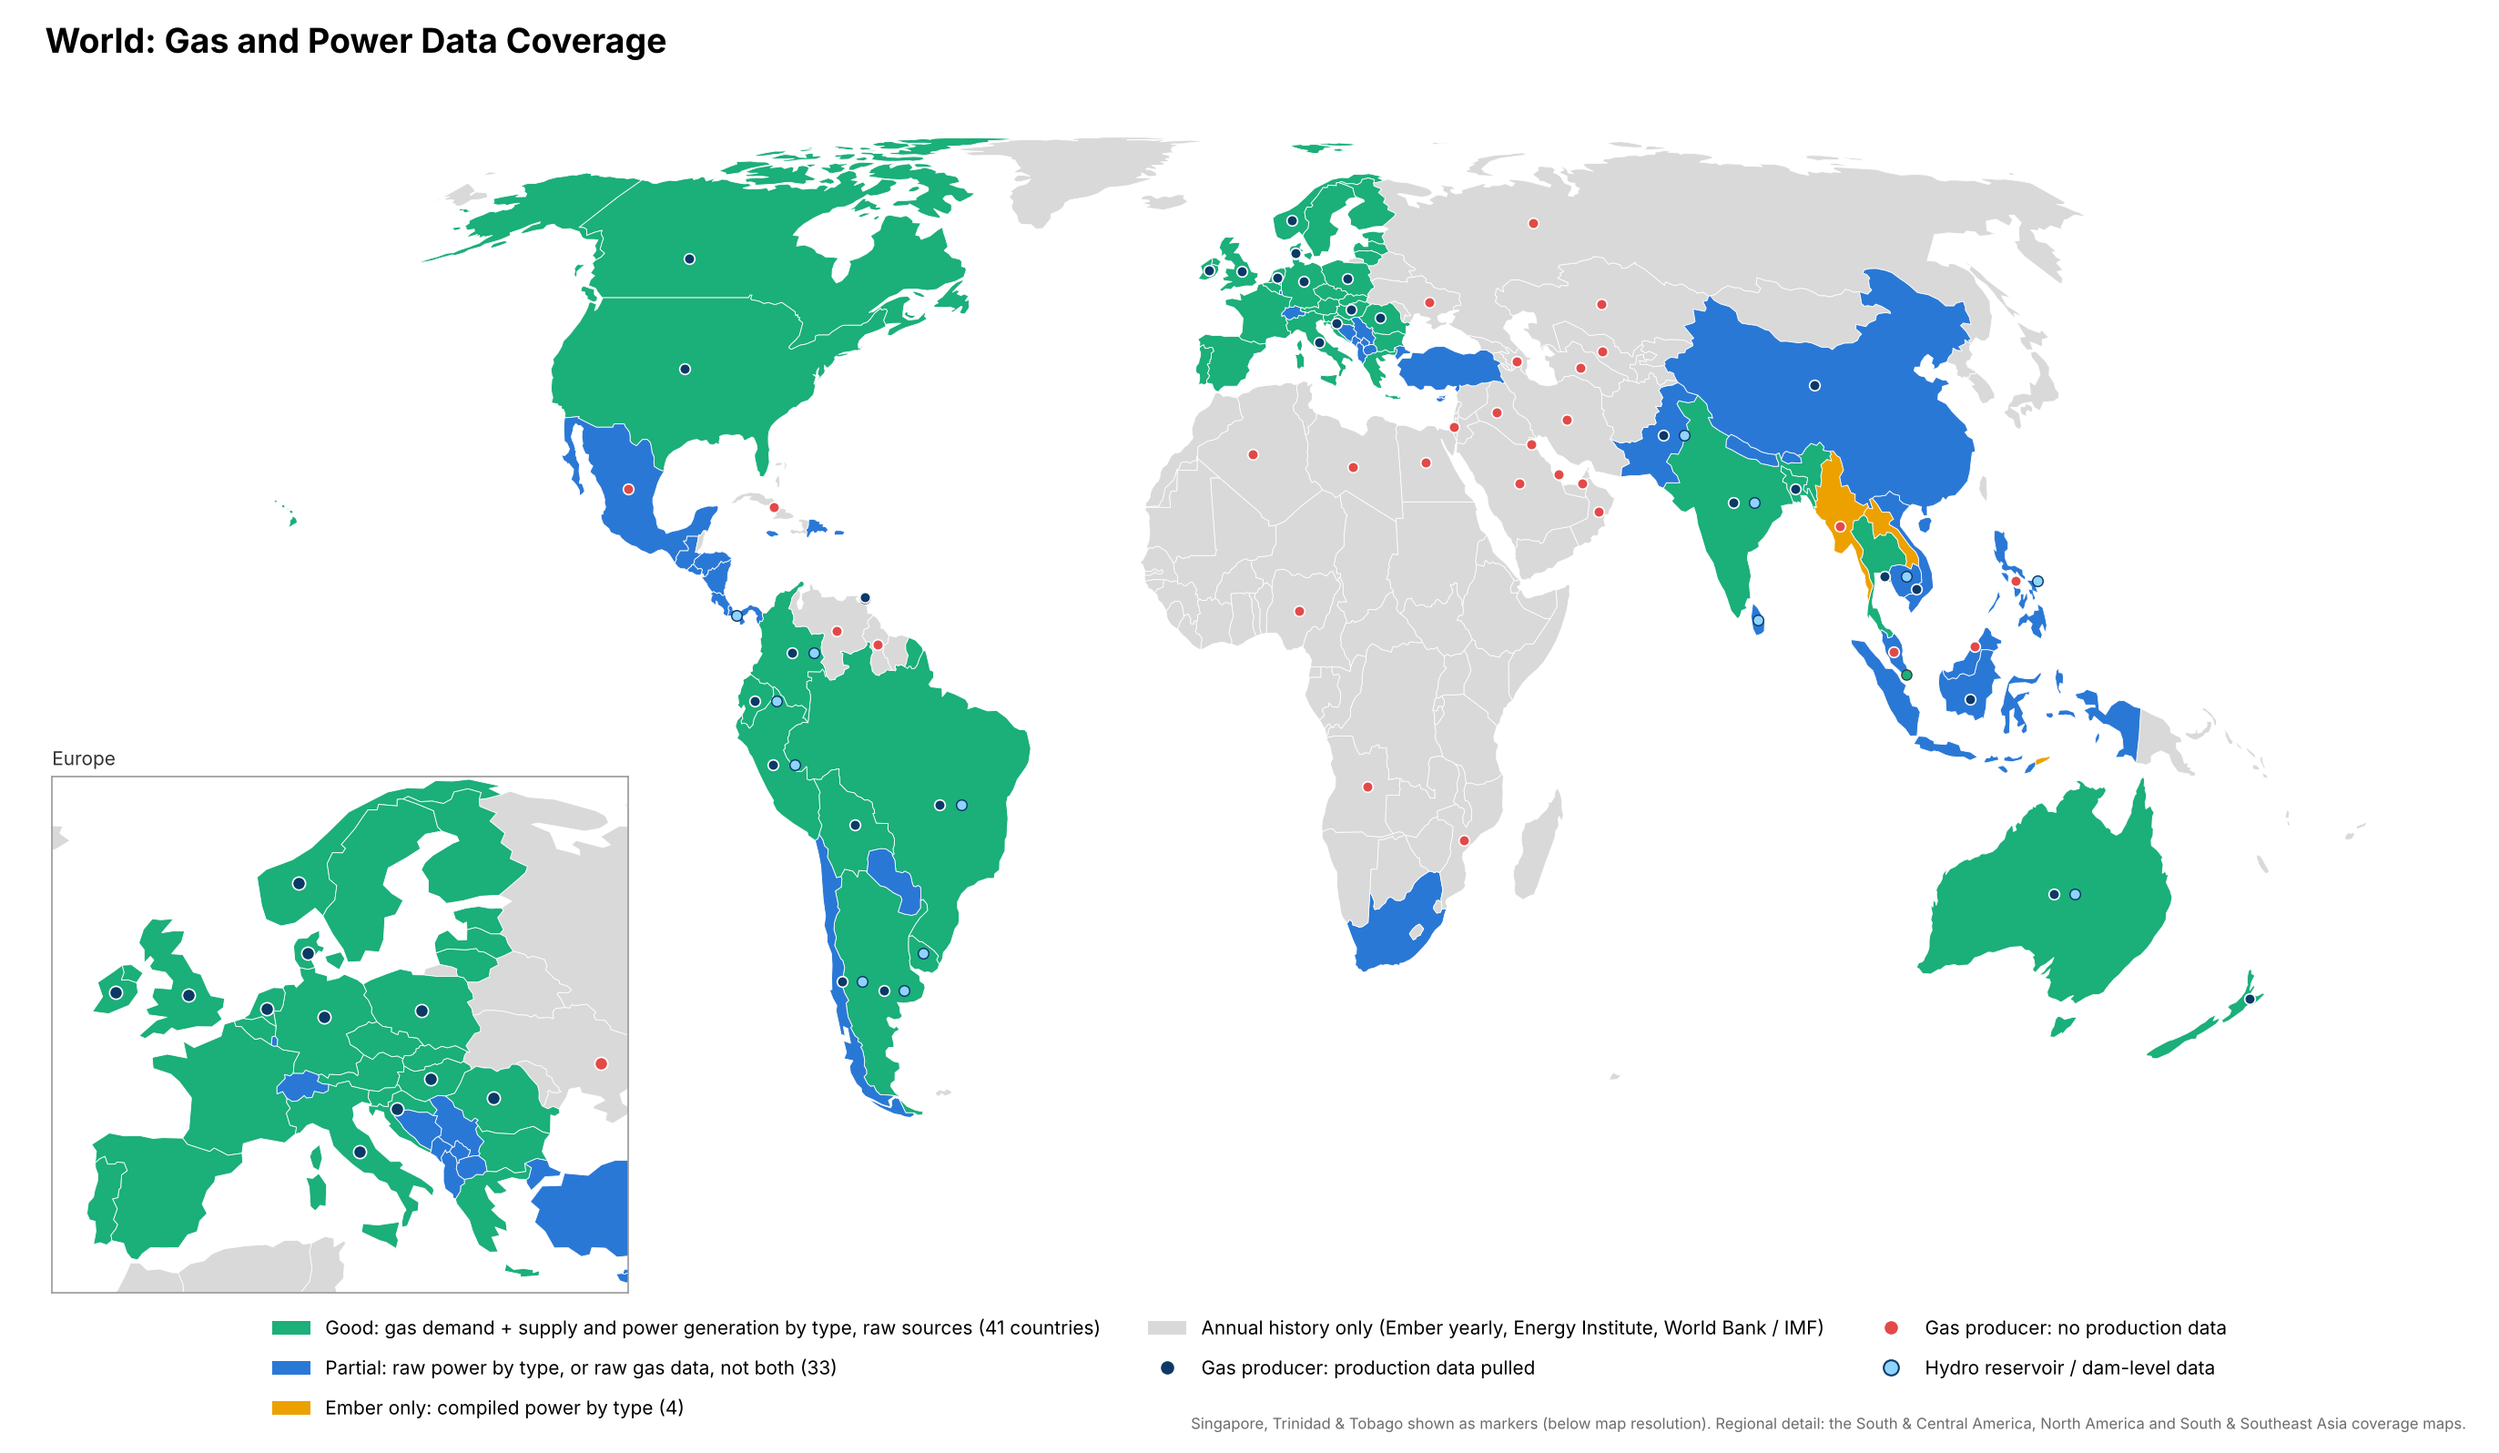
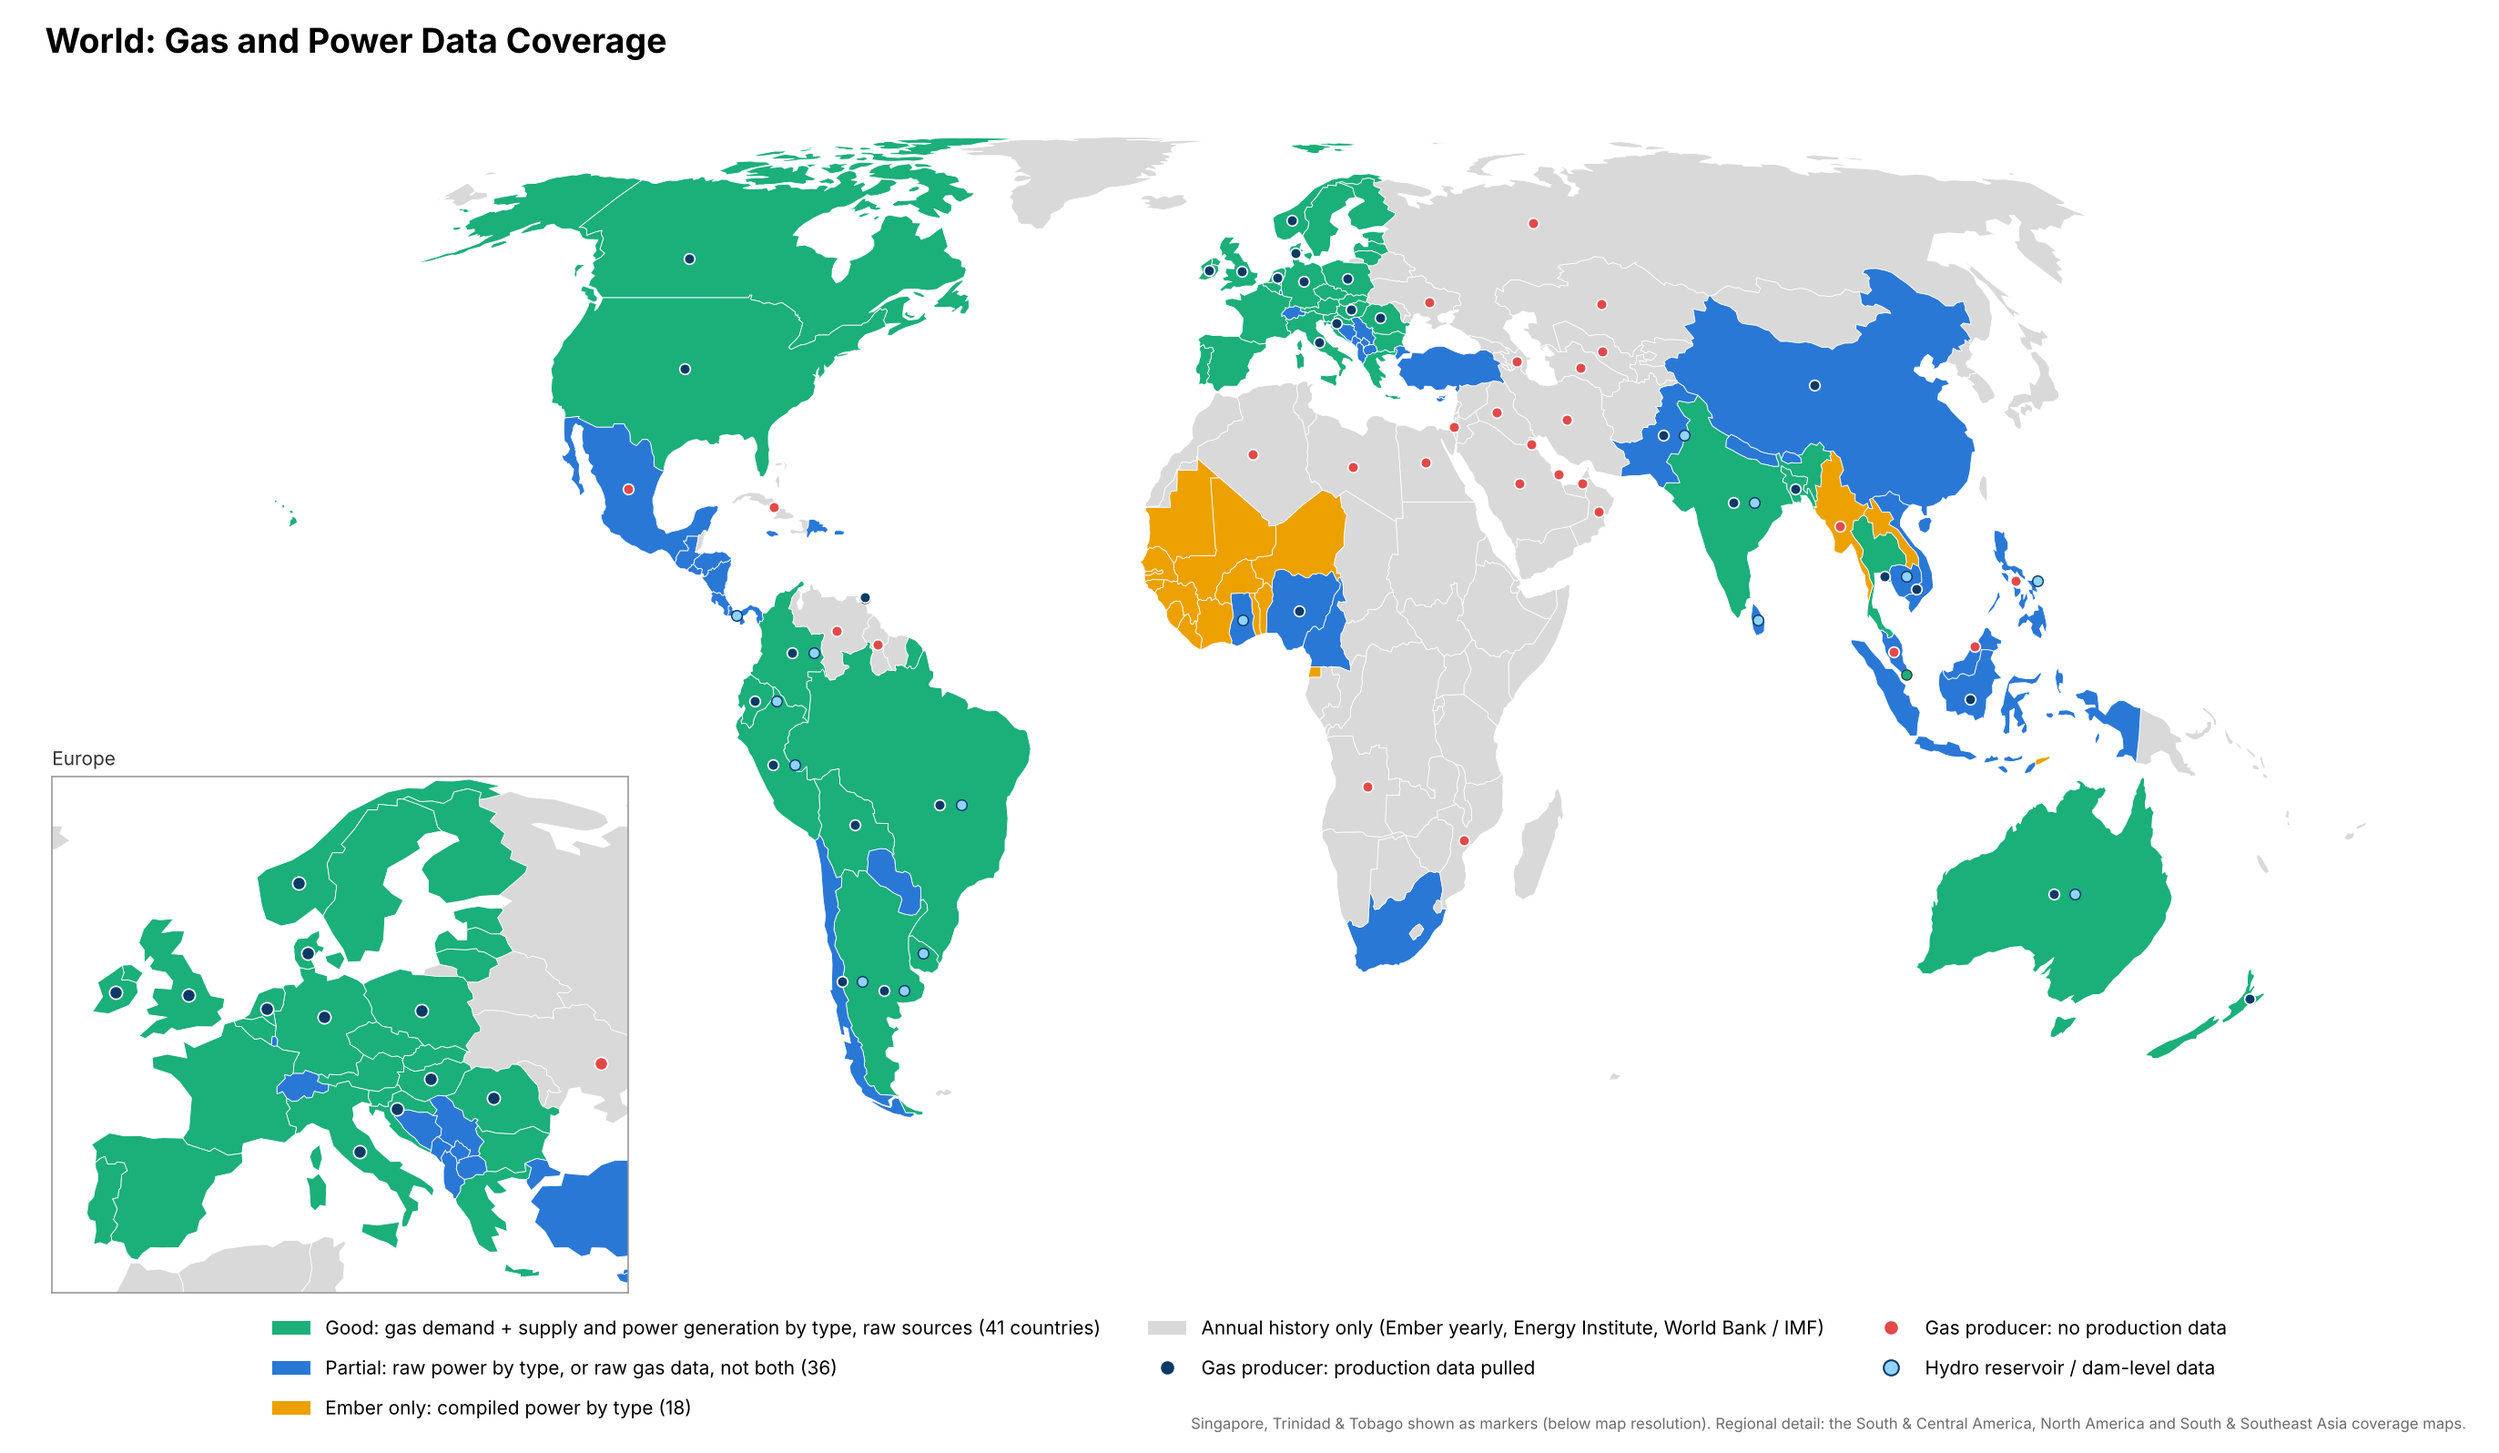
World coverage map: Ghana, Nigeria (power + NNPC gas), Cameroon, Ember-only West Africa, Canada provinces
Claude-Session: https://claude.ai/code/session_01KsnqxEAjweXcgXQovjMqTM

Changed region(s): [[0.4335, 0.307, 0.5574, 0.4605]]

diff --git a/output/Python Scripts/WORLD_COVERAGE_MAP.py b/output/Python Scripts/WORLD_COVERAGE_MAP.py
@@ -13,9 +13,10 @@ light blue = hydro reservoir / dam-level data.
 
 COVERAGE is maintained by hand: update it when a pull is added (South & Central America is read from
 south_america/COVERAGE_MAP.py so the two stay in step). Country shapes: Natural Earth 1:110m (bundled with
-geopandas 0.14), Equal Earth projection.
+geopandas 0.14). Two views per run: Robinson centred on the Pacific (150°E; countries crossing its edge at 30°W
+are cut there) -> world_coverage_map.png, and Equal Earth centred on Greenwich -> world_coverage_map_atlantic.png.
 
-Usage: python3 WORLD_COVERAGE_MAP.py [--out "output/PNG Charts/world_coverage_map.png"]
+Usage: python3 WORLD_COVERAGE_MAP.py [--view pacific|atlantic|both] [--out PATH (one view only)]
 """
 import argparse
 import importlib.util
@@ -24,6 +25,7 @@ import warnings
 
 import geopandas as gpd
 import matplotlib
+from shapely.geometry import box
 
 matplotlib.use("Agg")
 import matplotlib.pyplot as plt  # noqa: E402
@@ -31,7 +33,16 @@ from matplotlib.lines import Line2D  # noqa: E402
 from matplotlib.patches import Patch  # noqa: E402
 
 ROOT = os.path.dirname(os.path.abspath(__file__))
-CRS = "EPSG:8857"   # Equal Earth
+VIEWS = {   # name: (projection, edge longitude where shapes are cut, Europe inset position as figure fraction)
+    "pacific": ("+proj=robin +lon_0=150 +datum=WGS84 +units=m +no_defs", -30.0, [0.562, 0.10, 0.228, 0.34]),
+    "atlantic": ("EPSG:8857", 180.0, [0.005, 0.10, 0.25, 0.36]),   # Equal Earth on Greenwich, inset over the S Pacific
+}
+CRS, SEAM, INSET_AT = VIEWS["pacific"]
+
+
+def set_view(name):
+    global CRS, SEAM, INSET_AT
+    CRS, SEAM, INSET_AT = VIEWS[name]
 GREEN, BLUE, AMBER, GREY, EDGE = "#1BAF7A", "#2A78D6", "#EDA100", "#D9D9D9", "#FFFFFF"
 FILL = {"green": GREEN, "blue": BLUE, "amber": AMBER}
 DOT_HAVE, DOT_MISSING, DOT_HYDRO = "#0B3A66", "#E34948", "#8FD3FF"
@@ -46,8 +57,27 @@ COVERAGE.update({
     # North America
     "United States of America": ("green", "Gas demand by sector, supply, storage (EIA); power by type per balancing "
                                           "authority (EIA-930); LNG feedgas"),
-    "Canada": ("green", "Gas supply and disposition (StatCan); power by type (StatCan, IESO)"),
+    "Canada": ("green", "Gas supply and disposition (StatCan), gas and electricity trade (CER); power by type (StatCan, "
+                        "fossil split by province), IESO Ontario, Hydro-Quebec, AESO Alberta, BC Hydro and NB Power load"),
     "Mexico": ("blue", "Gas imports from the US, pipeline capacity; CENACE demand; power by type Ember only"),
+    # Africa: raw pulls (Ghana Energy Commission, Nigeria NERC + NNPC, Cameroon ARSEL) and Ember-only fallback
+    "Ghana": ("blue", "Power by plant daily (Energy Commission weekly WEM PDFs); annual by type; Akosombo/Bui lake levels"),
+    "Nigeria": ("blue", "Power NERC quarterly reports (grid-connected plants, hydro/thermal); gas NNPC monthly report summary"),
+    "Cameroon": ("blue", "Power ARSEL monthly energy balance, 2025 only (8+ month lag)"),
+    "Senegal": ("amber", "Power Ember yearly"),
+    "Côte d'Ivoire": ("amber", "Power Ember yearly"),
+    "Mauritania": ("amber", "Power Ember yearly"),
+    "Mali": ("amber", "Power Ember yearly"),
+    "Burkina Faso": ("amber", "Power Ember yearly"),
+    "Guinea": ("amber", "Power Ember yearly"),
+    "Sierra Leone": ("amber", "Power Ember yearly"),
+    "Liberia": ("amber", "Power Ember yearly"),
+    "Benin": ("amber", "Power Ember yearly"),
+    "Togo": ("amber", "Power Ember yearly"),
+    "Niger": ("amber", "Power Ember yearly"),
+    "Gambia": ("amber", "Power Ember yearly"),
+    "Guinea-Bissau": ("amber", "Power Ember yearly"),
+    "Eq. Guinea": ("amber", "Power Ember yearly"),
     # South & Southeast Asia
     "India": ("green", "Gas (PPAC); power CEA daily + NITI Aayog ICED; reservoirs; IEX prices"),
     "Bangladesh": ("green", "Gas production and distribution (Petrobangla daily); power PGCB"),
@@ -101,12 +131,12 @@ GAS_PRODUCERS.update({
     "United Kingdom": True, "Norway": True, "Netherlands": True, "Germany": True, "Romania": True, "Italy": True,
     "Poland": True, "Denmark": True, "Hungary": True, "Croatia": True, "Ireland": True, "Ukraine": False,
     "Russia": False, "Qatar": False, "Iran": False, "Saudi Arabia": False, "United Arab Emirates": False,
-    "Algeria": False, "Egypt": False, "Nigeria": False, "Turkmenistan": False, "Uzbekistan": False,
+    "Algeria": False, "Egypt": False, "Nigeria": True, "Turkmenistan": False, "Uzbekistan": False,
     "Kazakhstan": False, "Oman": False, "Azerbaijan": False, "Iraq": False, "Kuwait": False, "Libya": False,
     "Israel": False, "Mozambique": False, "Japan": None, "Angola": False,
 })
 GAS_PRODUCERS = {k: v for k, v in GAS_PRODUCERS.items() if v is not None}
-HYDRO = set(sa.HYDRO) | {"India", "Thailand", "Philippines", "Pakistan", "Sri Lanka", "Australia"}
+HYDRO = set(sa.HYDRO) | {"India", "Thailand", "Philippines", "Pakistan", "Sri Lanka", "Australia", "Ghana"}
 # dot positions (lon, lat) where the representative point is awkward
 DOT_AT = {"Chile": (-71.0, -36.0), "Norway": (9.0, 61.5), "Croatia": (16.0, 45.3), "Denmark": (9.3, 56.0),
           "United Kingdom": (-1.5, 53.0), "Indonesia": (114.0, -1.5), "Malaysia": (102.0, 4.0),
@@ -118,6 +148,13 @@ SMALL = {"Singapore": (103.82, 1.35, "green"), "Trinidad and Tobago": (-61.3, 10
 EUROPE_BOX = (-12.0, 34.0, 33.0, 71.5)   # lon_min, lat_min, lon_max, lat_max for the inset
 
 
+def cut_at_seam(g, eps=1e-6):
+    """Split a shape that crosses the map's edge (SEAM) into its two sides (Natural Earth is already split at 180)."""
+    if SEAM >= 180 or not g.intersects(box(SEAM - eps, -90, SEAM + eps, 90)):
+        return g
+    return g.intersection(box(-180, -90, SEAM - eps, 90)).union(g.intersection(box(SEAM + eps, -90, 180, 90)))
+
+
 def load_world():
     with warnings.catch_warnings():
         warnings.simplefilter("ignore")
@@ -125,6 +162,7 @@ def load_world():
     world = world[world["name"] != "Antarctica"].copy()
     world.loc[world["name"] == "N. Cyprus", "name"] = "Cyprus"
     world.loc[world["name"] == "Somaliland", "name"] = "Somalia"
+    world["geometry"] = world.geometry.map(cut_at_seam)
     world["fill"] = world["name"].map(lambda n: FILL[COVERAGE[n][0]] if n in COVERAGE else GREY)
     return world
 
@@ -169,10 +207,7 @@ def draw(ax, world, dots=True, small_dots=9, extent=None):
                 markeredgewidth=0.7, zorder=7)
 
 
-def main():
-    ap = argparse.ArgumentParser()
-    ap.add_argument("--out", default=os.path.join(ROOT, "output", "PNG Charts", "world_coverage_map.png"))
-    args = ap.parse_args()
+def render(out):
     world = load_world().to_crs(CRS)
 
     fig = plt.figure(figsize=(18, 10.5), dpi=150)
@@ -182,9 +217,9 @@ def main():
     ax.set_axis_off()
     ax.set_title("World: Gas and Power Data Coverage", fontsize=18, fontweight="bold", loc="left", x=0.01)
 
-    # Europe inset (bottom left, over the South Pacific)
-    ins = fig.add_axes([0.005, 0.10, 0.25, 0.36])
-    draw(ins, world, small_dots=11)
+    # Europe inset over open ocean (South Pacific; where depends on the view)
+    ins = fig.add_axes(INSET_AT)
+    draw(ins, world, small_dots=11 * INSET_AT[2] / 0.25)   # markers scale with the inset
     lo, la, hi_lo, hi_la = EUROPE_BOX
     a, b = pt(lo, la), pt(hi_lo, hi_la)
     c, d = pt(lo, hi_la), pt(hi_lo, la)
@@ -212,9 +247,20 @@ def main():
     fig.text(0.995, 0.005, "Singapore, Trinidad & Tobago shown as markers (below map resolution). Regional detail: "
              "the South & Central America, North America and South & Southeast Asia coverage maps.", ha="right",
              fontsize=8, color="#6B6B6B")
-    os.makedirs(os.path.dirname(os.path.abspath(args.out)), exist_ok=True)
-    fig.savefig(args.out, facecolor="white", bbox_inches="tight", pad_inches=0.15)
-    print(f"Saved {args.out}: {counts}")
+    os.makedirs(os.path.dirname(os.path.abspath(out)), exist_ok=True)
+    fig.savefig(out, facecolor="white", bbox_inches="tight", pad_inches=0.15)
+    print(f"Saved {out}: {counts}")
+
+
+def main():
+    ap = argparse.ArgumentParser()
+    ap.add_argument("--view", choices=["pacific", "atlantic", "both"], default="both")
+    ap.add_argument("--out", default=None, help="output path (one view only); default world_coverage_map[_atlantic].png")
+    args = ap.parse_args()
+    base = os.path.join(ROOT, "output", "PNG Charts", "world_coverage_map")
+    for view in (["pacific", "atlantic"] if args.view == "both" else [args.view]):
+        set_view(view)
+        render(args.out if args.out and args.view != "both" else base + ("" if view == "pacific" else "_atlantic") + ".png")
 
 
 if __name__ == "__main__":

diff --git a/WORLD_COVERAGE_MAP.py b/WORLD_COVERAGE_MAP.py
@@ -57,8 +57,27 @@ COVERAGE.update({
     # North America
     "United States of America": ("green", "Gas demand by sector, supply, storage (EIA); power by type per balancing "
                                           "authority (EIA-930); LNG feedgas"),
-    "Canada": ("green", "Gas supply and disposition (StatCan); power by type (StatCan, IESO)"),
+    "Canada": ("green", "Gas supply and disposition (StatCan), gas and electricity trade (CER); power by type (StatCan, "
+                        "fossil split by province), IESO Ontario, Hydro-Quebec, AESO Alberta, BC Hydro and NB Power load"),
     "Mexico": ("blue", "Gas imports from the US, pipeline capacity; CENACE demand; power by type Ember only"),
+    # Africa: raw pulls (Ghana Energy Commission, Nigeria NERC + NNPC, Cameroon ARSEL) and Ember-only fallback
+    "Ghana": ("blue", "Power by plant daily (Energy Commission weekly WEM PDFs); annual by type; Akosombo/Bui lake levels"),
+    "Nigeria": ("blue", "Power NERC quarterly reports (grid-connected plants, hydro/thermal); gas NNPC monthly report summary"),
+    "Cameroon": ("blue", "Power ARSEL monthly energy balance, 2025 only (8+ month lag)"),
+    "Senegal": ("amber", "Power Ember yearly"),
+    "Côte d'Ivoire": ("amber", "Power Ember yearly"),
+    "Mauritania": ("amber", "Power Ember yearly"),
+    "Mali": ("amber", "Power Ember yearly"),
+    "Burkina Faso": ("amber", "Power Ember yearly"),
+    "Guinea": ("amber", "Power Ember yearly"),
+    "Sierra Leone": ("amber", "Power Ember yearly"),
+    "Liberia": ("amber", "Power Ember yearly"),
+    "Benin": ("amber", "Power Ember yearly"),
+    "Togo": ("amber", "Power Ember yearly"),
+    "Niger": ("amber", "Power Ember yearly"),
+    "Gambia": ("amber", "Power Ember yearly"),
+    "Guinea-Bissau": ("amber", "Power Ember yearly"),
+    "Eq. Guinea": ("amber", "Power Ember yearly"),
     # South & Southeast Asia
     "India": ("green", "Gas (PPAC); power CEA daily + NITI Aayog ICED; reservoirs; IEX prices"),
     "Bangladesh": ("green", "Gas production and distribution (Petrobangla daily); power PGCB"),
@@ -112,12 +131,12 @@ GAS_PRODUCERS.update({
     "United Kingdom": True, "Norway": True, "Netherlands": True, "Germany": True, "Romania": True, "Italy": True,
     "Poland": True, "Denmark": True, "Hungary": True, "Croatia": True, "Ireland": True, "Ukraine": False,
     "Russia": False, "Qatar": False, "Iran": False, "Saudi Arabia": False, "United Arab Emirates": False,
-    "Algeria": False, "Egypt": False, "Nigeria": False, "Turkmenistan": False, "Uzbekistan": False,
+    "Algeria": False, "Egypt": False, "Nigeria": True, "Turkmenistan": False, "Uzbekistan": False,
     "Kazakhstan": False, "Oman": False, "Azerbaijan": False, "Iraq": False, "Kuwait": False, "Libya": False,
     "Israel": False, "Mozambique": False, "Japan": None, "Angola": False,
 })
 GAS_PRODUCERS = {k: v for k, v in GAS_PRODUCERS.items() if v is not None}
-HYDRO = set(sa.HYDRO) | {"India", "Thailand", "Philippines", "Pakistan", "Sri Lanka", "Australia"}
+HYDRO = set(sa.HYDRO) | {"India", "Thailand", "Philippines", "Pakistan", "Sri Lanka", "Australia", "Ghana"}
 # dot positions (lon, lat) where the representative point is awkward
 DOT_AT = {"Chile": (-71.0, -36.0), "Norway": (9.0, 61.5), "Croatia": (16.0, 45.3), "Denmark": (9.3, 56.0),
           "United Kingdom": (-1.5, 53.0), "Indonesia": (114.0, -1.5), "Malaysia": (102.0, 4.0),
